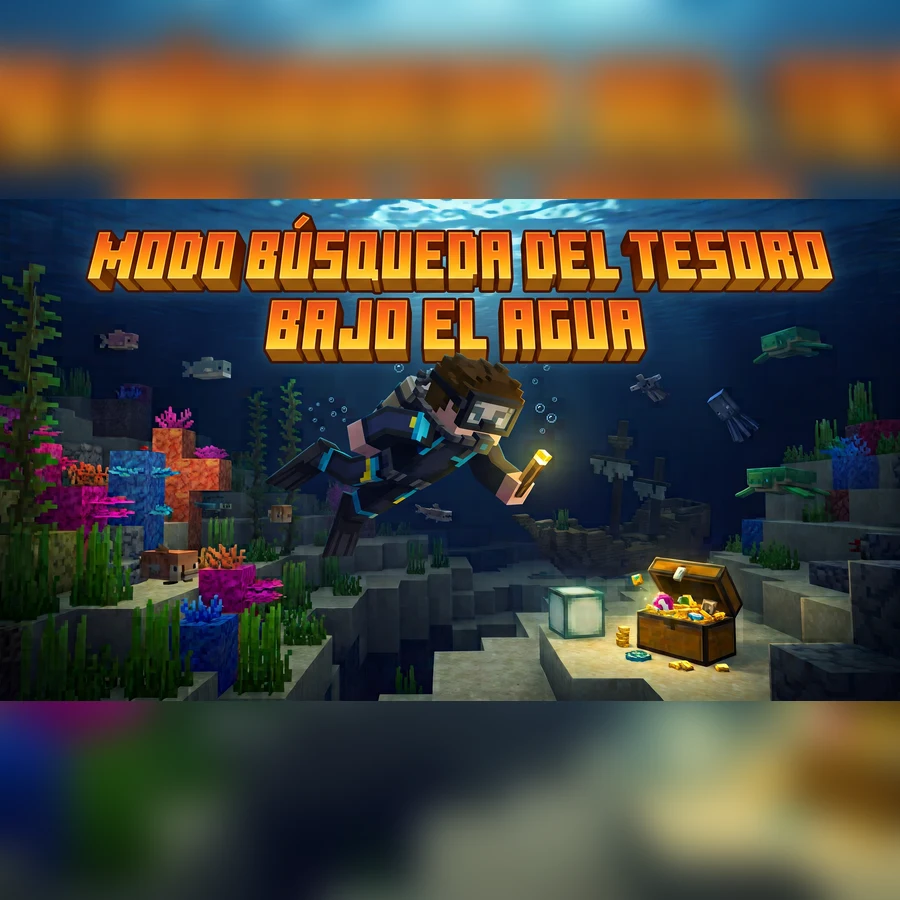
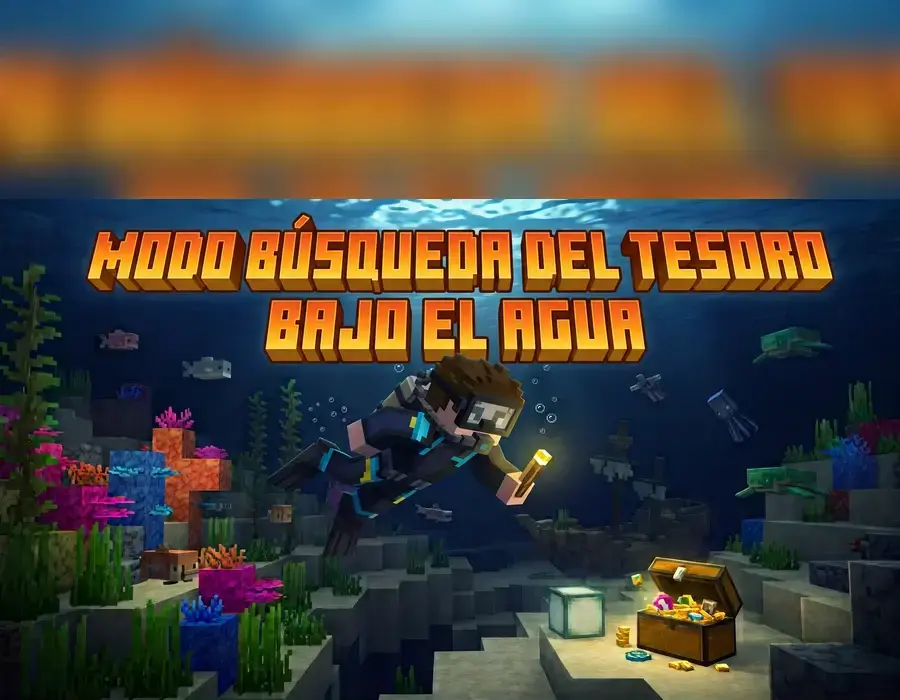
Réduire les cartes et retirer le flou du bas de la plongée

diff --git a/index.html b/index.html
@@ -1319,8 +1319,10 @@
       .world-card-shell:has([data-world-mode="skyfall"], [data-world-mode="planet"], [data-world-mode="deep-dive"]) { max-width: 340px; padding: 0; background: transparent; border: 0; box-shadow: none; }
       .world-card-shell:has([data-world-mode="skyfall"], [data-world-mode="planet"], [data-world-mode="deep-dive"]) .world-card { padding: 0; background: transparent; border: 0; box-shadow: none; }
       .world-card-shell:has([data-world-mode="skyfall"], [data-world-mode="planet"], [data-world-mode="deep-dive"]) .world-mode-tag, .world-card-shell:has([data-world-mode="skyfall"], [data-world-mode="planet"], [data-world-mode="deep-dive"]) .world-mode-badges { display: none; }
-      .world-card-shell:has([data-world-mode="skyfall"], [data-world-mode="planet"]) { max-width: 420px; }
-      .world-card-shell:has([data-world-mode="skyfall"], [data-world-mode="planet"]) .world-card img { transform: scale(1.45); }
+      .world-card-shell:has([data-world-template="fortress"]) { max-width: 280px; }
+      .world-card-shell:has([data-world-mode="skyfall"], [data-world-mode="planet"]) { max-width: 320px; }
+      .world-card-shell:has([data-world-mode="skyfall"], [data-world-mode="planet"]) .world-card img { transform: scale(1.15); }
+      .world-card-shell:has([data-world-mode="deep-dive"]) { aspect-ratio: 9 / 7; }
       .world-card-shell:has([data-world-mode="deep-dive"]) .world-card img { transform: scale(1); }
       .world-card-shell .world-card-label { padding-bottom: 14px; }
       .community-random:disabled { opacity: .5; cursor: not-allowed; }

diff --git a/src/components/GameMenu.tsx b/src/components/GameMenu.tsx
@@ -248,7 +248,7 @@ export function GameMenu({ paused, onPlay, onShop }: { paused: boolean; onPlay: 
               const playerCount = modePlayerCounts[card.mode] ?? 0;
               return (
                 <div className="world-card-shell" key={card.id ?? card.mode}>
-                  <button className={['world-card', card.className].filter(Boolean).join(' ')} data-world-mode={card.mode} aria-haspopup="dialog" onClick={() => openJoinMode(card.mode, card)} disabled={pendingWorld !== null}>
+                  <button className={['world-card', card.className].filter(Boolean).join(' ')} data-world-mode={card.mode} data-world-template={card.template} aria-haspopup="dialog" onClick={() => openJoinMode(card.mode, card)} disabled={pendingWorld !== null}>
                     <img src={card.image} alt={card.alt} />
                     <span className="world-card-label"><strong>{card.name}</strong></span>
                     {!['skyfall', 'planet', 'deep-dive'].includes(card.mode) && <span className={['world-mode-tag', card.tagClass].filter(Boolean).join(' ')}>{card.tag(enabled)}</span>}
